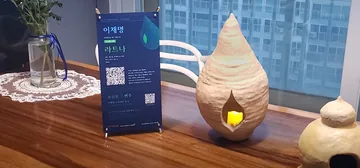
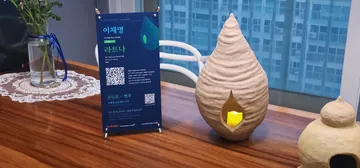
이채명 전시 전경 1번: 새 사진(이채명.jpg)으로 교체, 색 보정 없음

diff --git a/app/_content/artist-pages.js b/app/_content/artist-pages.js
@@ -326,7 +326,7 @@ const details = {
       venue: PRIVATE_SPACE,
       // 1번은 지정한 1차 보정본을 원본 작품 색상에 맞추고 강한 하이라이트만 완화. 2번 유지. 4는 양옆을 흐리게 채움.
       installPhotos: [
-        install("lee-chaemyeong-1-original-color", "불빛이 든 〈라트나〉와 작품 안내판"),
+        install("lee-chaemyeong-1", "테이블 위 불빛이 든 〈라트나〉와 작품 안내판, 곁의 〈마루〉"),
         install("lee-chaemyeong-2", "창가 테이블의 두 작품과 이채명·박수연"),
         install("lee-chaemyeong-4", "흰 아치 벽감 안에 나란히 놓인 〈라트나〉와 〈마루〉"),
       ],
